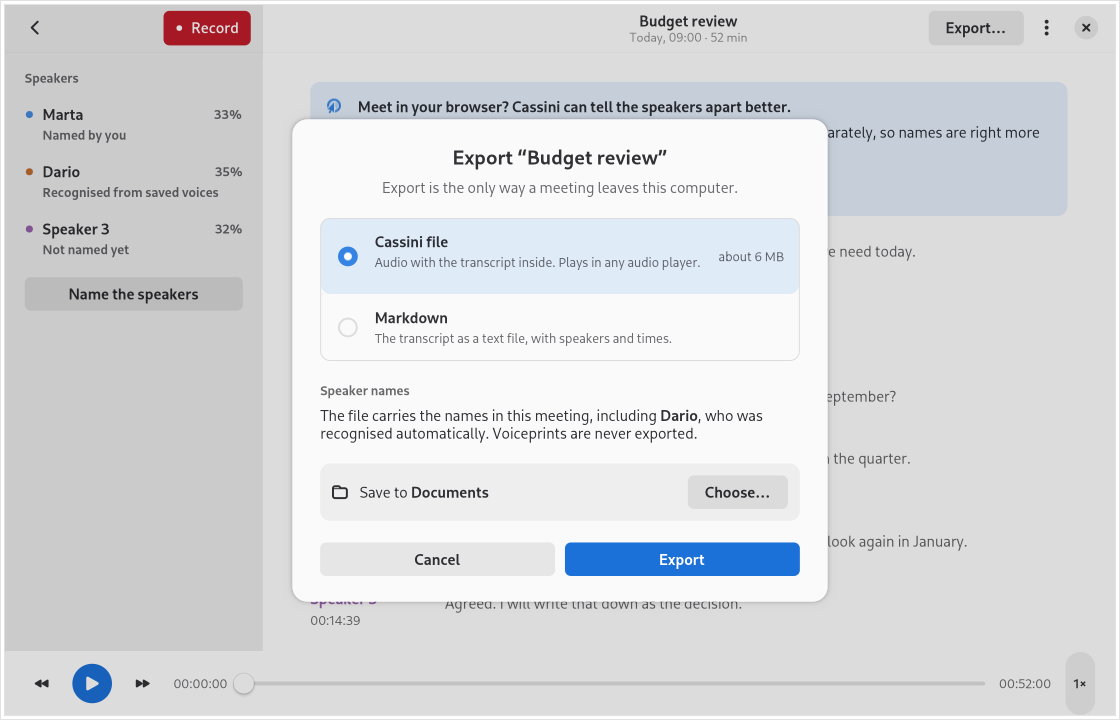
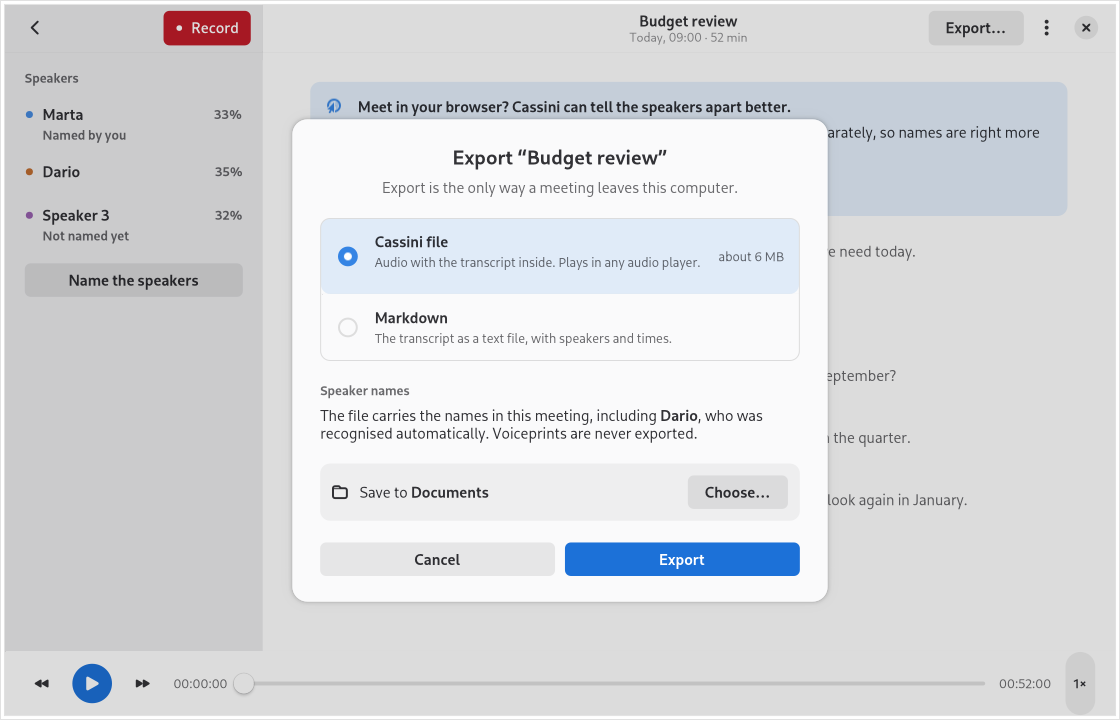
Describe saved voices in the README and refresh its screenshots
Recognising saved voices shipped in #84, so the README drops the
"not available yet" notes, explains remembering, recognising and
forgetting voices, adds the Saved voices page, and says where
voiceprints are kept. Screenshots come from the app's own rendering
in CI run 40825583110 at 0ef71ab.

diff --git a/README.md b/README.md
@@ -4,14 +4,14 @@ Cassini is a GNOME desktop app for Linux that records your meetings, writes them
 
 ![The Library with sample meetings](docs/screenshots/library.png)
 
-*The Library with sample meetings. The small `auto` tag next to a name comes from the sample data: recognising saved voices is not available yet.*
+*The Library with sample meetings.*
 
 ## What you can do
 
 - Record a meeting from your microphone and this computer's sound (the others) straight into your Library with one press of **Record**, and change whether you record **Me**, **The others**, or **Both** at any point during the meeting.
 - Write meetings down automatically on this computer, offline, using the included **Whistle** speech model or the optional **Parakeet Ultra** model (25 European languages), and optionally **Tell speakers apart** as **Speaker 1**, **Speaker 2**, and so on.
 - Read a meeting while you listen, with each word highlighted as it plays and any word clickable to play from that moment.
-- Name speakers in a meeting, listen to a short voice sample before naming, merge speakers who are the same person, and undo a merge if needed.
+- Name speakers in a meeting, remember their voice on this computer so future meetings name them automatically, listen to a short voice sample before naming, merge speakers who are the same person, and undo a merge if needed.
 - Search every meeting for a phrase and filter results by speaker, date, or meetings you recorded yourself.
 - Open Cassini `.opus` files from elsewhere on your computer to keep a copy in your Library as a **Received** meeting.
 - Export any meeting to share or back up, either as a portable Cassini `.opus` audio file or as a Markdown text file.
@@ -73,7 +73,7 @@ The first time you record, a **Before your first recording** card reminds you th
 
 *The Recording page during a sample meeting, with a silent-microphone warning and a time-pinned note.*
 
-While recording, the Recording page shows a large timer, live sound levels for your microphone and the others, an editable **Title**, and a **Notes** box. Each line you type in **Notes** is pinned to the moment you start typing it. If your microphone is silent for 20 seconds, Cassini shows a warning with a **Check** button that opens your sound settings.
+While recording, the Recording page shows a large timer, live sound levels for your microphone and the others, an editable **Title**, and a **Notes** box. Each line you type in **Notes** is pinned to the moment you start typing it. If your microphone is silent for 20 seconds, Cassini shows a warning with a **Check** button that opens your sound settings. If a microphone or computer sound briefly stops delivering audio for a second or more, Cassini keeps the meeting's timing by recording that moment as silence, so the transcript stays in step.
 
 ![The What is recorded dialog during a recording](docs/screenshots/what-is-recorded.png)
 
@@ -89,30 +89,36 @@ When the meeting ends, press **Stop** on the Recording page, in the red pill in 
 
 ![A sample meeting open for reading and playback](docs/screenshots/meeting.png)
 
-*A meeting page with a sample meeting. `Recognised from saved voices` and the `auto` tag come from the sample data; recognising saved voices is not available yet.*
+*A meeting page with a sample meeting.*
 
 When a recording stops, Cassini writes it down automatically on this computer, offline. The Library shows progress and an estimate of the time left. If you close Cassini, it continues next time you open the app; if writing down fails, press **Try again**. Older recordings and Received meetings without a transcript have a **Write it down** button. Writing down is available on `x86_64` (64-bit Intel and AMD) computers in both the native packages and the Flatpak; on other computers, the **Write it down** button is hidden.
 
 ![Preferences open to the Transcription tab](docs/screenshots/settings.png)
 
-*Preferences (`Ctrl+,`) on the Transcription tab. `Recognise saved voices` is shown disabled and is not available yet.*
+*Preferences (`Ctrl+,`) on the Transcription tab, over sample meetings in the Library.*
 
 Open **Preferences** from the main menu or with `Ctrl+,` to see the **Recording**, **Transcription**, **Library**, and **Browser companion** tabs. In **Transcription**:
 
 - **Writing down what was said**: **Whistle** (16 MB) is included and used by default for English, German, French, Spanish, Italian, Dutch, and Polish. You can also download the optional **Parakeet Ultra** speech model (443 MB download, 25 European languages) and choose it for new meetings. Meetings already written down keep their transcript; if you remove Parakeet Ultra later, existing transcripts and speaker names stay and new meetings use Whistle again.
-- **Speakers**: Without extra speaker models, a meeting recorded from your microphone and computer sound attributes words to **Me** and **The others** (while browser recordings already keep each participant apart as **Speaker 1**, **Speaker 2**, and so on). Download **Tell speakers apart** (Nemotron, 62 MB download) to separate voices that share a microphone or computer sound source: once **On**, it labels each voice as **Speaker 1**, **Speaker 2**, and so on in meetings written down from then on, leaving existing transcripts as they are. **Recognise saved voices** is shown below it as disabled and is not available yet.
+- **Speakers**: Without extra speaker models, a meeting recorded from your microphone and computer sound attributes words to **Me** and **The others** (while browser recordings already keep each participant apart as **Speaker 1**, **Speaker 2**, and so on). Download **Tell speakers apart** (Nemotron, 62 MB download) to separate voices that share a microphone or computer sound source: once **On**, it labels each voice as **Speaker 1**, **Speaker 2**, and so on in meetings written down from then on, leaving existing transcripts as they are. Below it, **Recognise saved voices** (26 MB download) can be downloaded once **Tell speakers apart** is **On**: when **On**, Cassini names people you saved in meetings written down from then on. Below it, a **Saved voices** row shows how many people are saved and opens the **Saved voices** page.
 
 In the Library, meetings are grouped by day with a quote, the speakers, and a short transcript preview. You can start playback straight from the preview, or open the meeting to see each speaker's share of the conversation and read the full transcript. As the meeting plays, words are highlighted and the transcript scrolls along. Click any word to play from that moment, use the player bar to skip 10 seconds back or forward, or press `Space` to play and pause.
 
 ![Naming and merging a speaker in a sample meeting](docs/screenshots/speakers.png)
 
-*Naming a speaker in a meeting. In the meeting behind the dialog, `Recognised from saved voices` and the `auto` tag come from the sample data; recognising saved voices is not available yet.*
+*Naming a speaker in a sample meeting.*
 
-To name someone in a meeting, click their row in the **Speakers** sidebar (or press **Name the speakers**). Press the play button in the dialog to listen to a short sample of their voice from the meeting, type their **Name**, and press **Save name**. You can also rename **Me** and **The others**, or clear a name to return to **Speaker 1**, **Speaker 2**, and so on. If one person was split into two speakers, choose **Merge into…** and pick the other speaker to combine their turns; to undo the last merge, open the meeting menu (the three-dots button in the meeting header) and choose **Undo merge**. Speaker names and merges apply everywhere in Cassini, including the Library, **Search every meeting**, and exported files.
+To name someone in a meeting, click their row in the **Speakers** sidebar (or press **Name the speakers**). Press the play button in the dialog to listen to a short sample of their voice from the meeting, type their **Name**, and press **Save name**. When you name a speaker, keep **Remember this voice on this computer** checked (it needs a few seconds of that person speaking on their own) so future meetings name them automatically when Cassini is confident. When it is less sure, the dialog lists **Saved voices, closest first** with the closest marked **Likely**, so you can pick the name. If you type a name that is already saved, Cassini asks whether it is the same person (**Same person** or **Someone else**). You can also rename **Me** and **The others**, or clear a name to return to **Speaker 1**, **Speaker 2**, and so on. A name recognised automatically can be changed or cleared like any other, and a name you clear stays cleared: Cassini does not put it back. If one person was split into two speakers, choose **Merge into…** and pick the other speaker to combine their turns; to undo the last merge, open the meeting menu (the three-dots button in the meeting header) and choose **Undo merge**. Merging and undoing a merge keep saved voices up to date. Speaker names and merges apply everywhere in Cassini, including the Library, **Search every meeting**, and exported files.
+
+![The Saved voices page with sample voices](docs/screenshots/saved-voices.png)
+
+*The Saved voices page with sample voices.*
+
+**Recognise people automatically.** On the **Saved voices** page (opened from **Preferences** > **Transcription**), Cassini lists each person you saved with how many meetings they were recognised or named in and how much confirmed speech Cassini has heard. Press the play button next to a person to play a short sample (up to 10 seconds) from their most recent meeting still in the Library. Press **Forget** to remove one person, or **Forget everyone…** to remove all of them after a confirmation. Forgetting never changes names already in your meetings.
 
 ![Searching across sample meetings](docs/screenshots/search.png)
 
-*Search every meeting with sample meetings. The `auto` tag next to `Dario` comes from the sample data; recognising saved voices is not available yet.*
+*Search every meeting with sample meetings.*
 
 To find something across all of your meetings, press the magnifier in the Library or press `Ctrl+F` to open **Search every meeting**. Type a phrase to find every matching moment. You can narrow results by **Speaker** (when a meeting has named speakers), by date (**Today**, **Past 7 days**, or **Past 30 days**), and with **Recorded by me**. Each result shows the words around the match: press **Play from** to listen right there, or **Open the meeting here** to jump to that point in the full transcript. Filters reset when you close Search. The search index is private, kept in Cassini's cache folder, and never written into your Library.
 
@@ -130,7 +136,7 @@ Cassini copies the file into your Library and marks it as **Received**. Your ori
 
 ![The Export dialog on a sample meeting](docs/screenshots/export.png)
 
-*The Export dialog over a sample meeting. `Recognised from saved voices` and the note that `Dario` was recognised automatically come from the sample data; recognising saved voices is not available yet.*
+*The Export dialog over a sample meeting.*
 
 To share a meeting or back it up elsewhere, press **Export…** in the Library header, in the meeting header, or in the main menu (or press `Ctrl+Shift+E`). You can export in two formats:
 
@@ -162,13 +168,9 @@ For local builds, whole-tab audio capture, and troubleshooting, see the [browser
 
 Cassini stores your Library in `Music/Cassini` inside your home folder (`~/Music/Cassini`), with one folder per meeting. In **Preferences** (`Ctrl+,`) > **Library**, press **Show in Files** to open the folder in your file manager, or **Move…** (in the native packages) to move your Library to another folder.
 
-Everything happens on this computer: recording, writing meetings down offline, telling speakers apart, and searching across your Library. Cassini only uses the network when you ask it to download an optional speech or speaker model in **Preferences** > **Transcription**. There is no account, no cloud service, and nothing is uploaded. **Export** is the only way a meeting leaves this computer, and only when you choose.
+Everything happens on this computer: recording, writing meetings down offline, telling speakers apart, recognising saved voices, and searching across your Library. Cassini only uses the network when you ask it to download an optional speech or speaker model in **Preferences** > **Transcription**. There is no account, no cloud service, and nothing is uploaded. **Export** is the only way a meeting leaves this computer, and only when you choose. Voiceprints stay on this computer, in Cassini's own private data folder, not in the Library. They are never uploaded and never written into exported files; only the names you choose are.
 
 Exported and Received [portable meetings](https://format.gocassini.com/) are ordinary `.opus` audio files that carry their transcript, speakers, and notes inside the file itself, and play in any audio player.
-
-## What's coming
-
-- Saving voices when you name a speaker and recognising saved voices automatically in future meetings.
 
 ## Help and feedback
 
